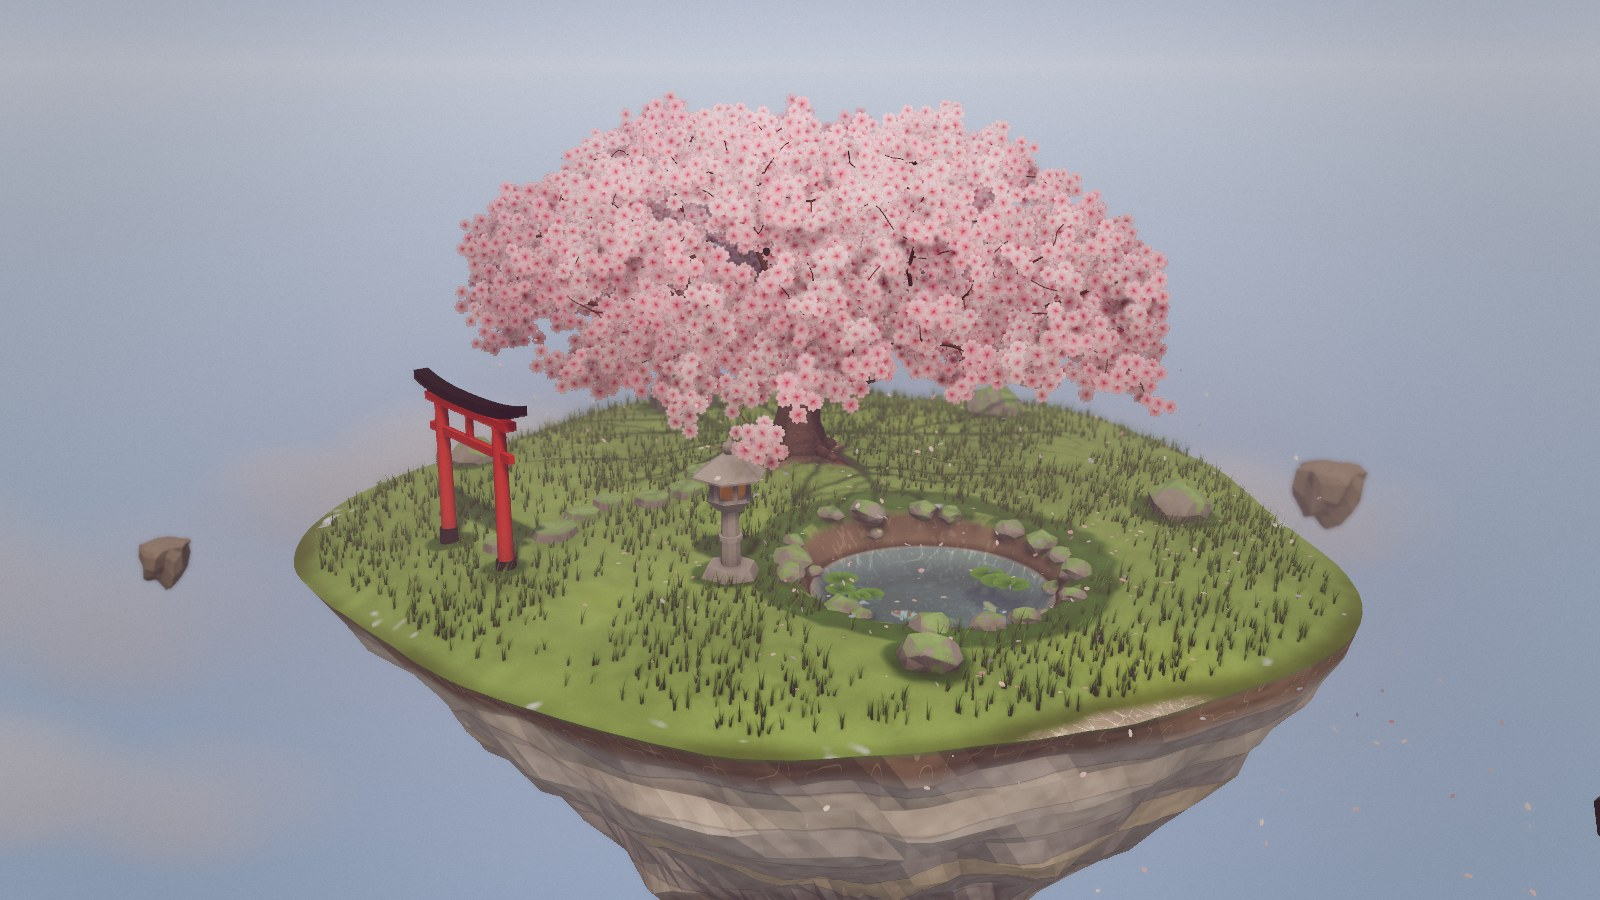
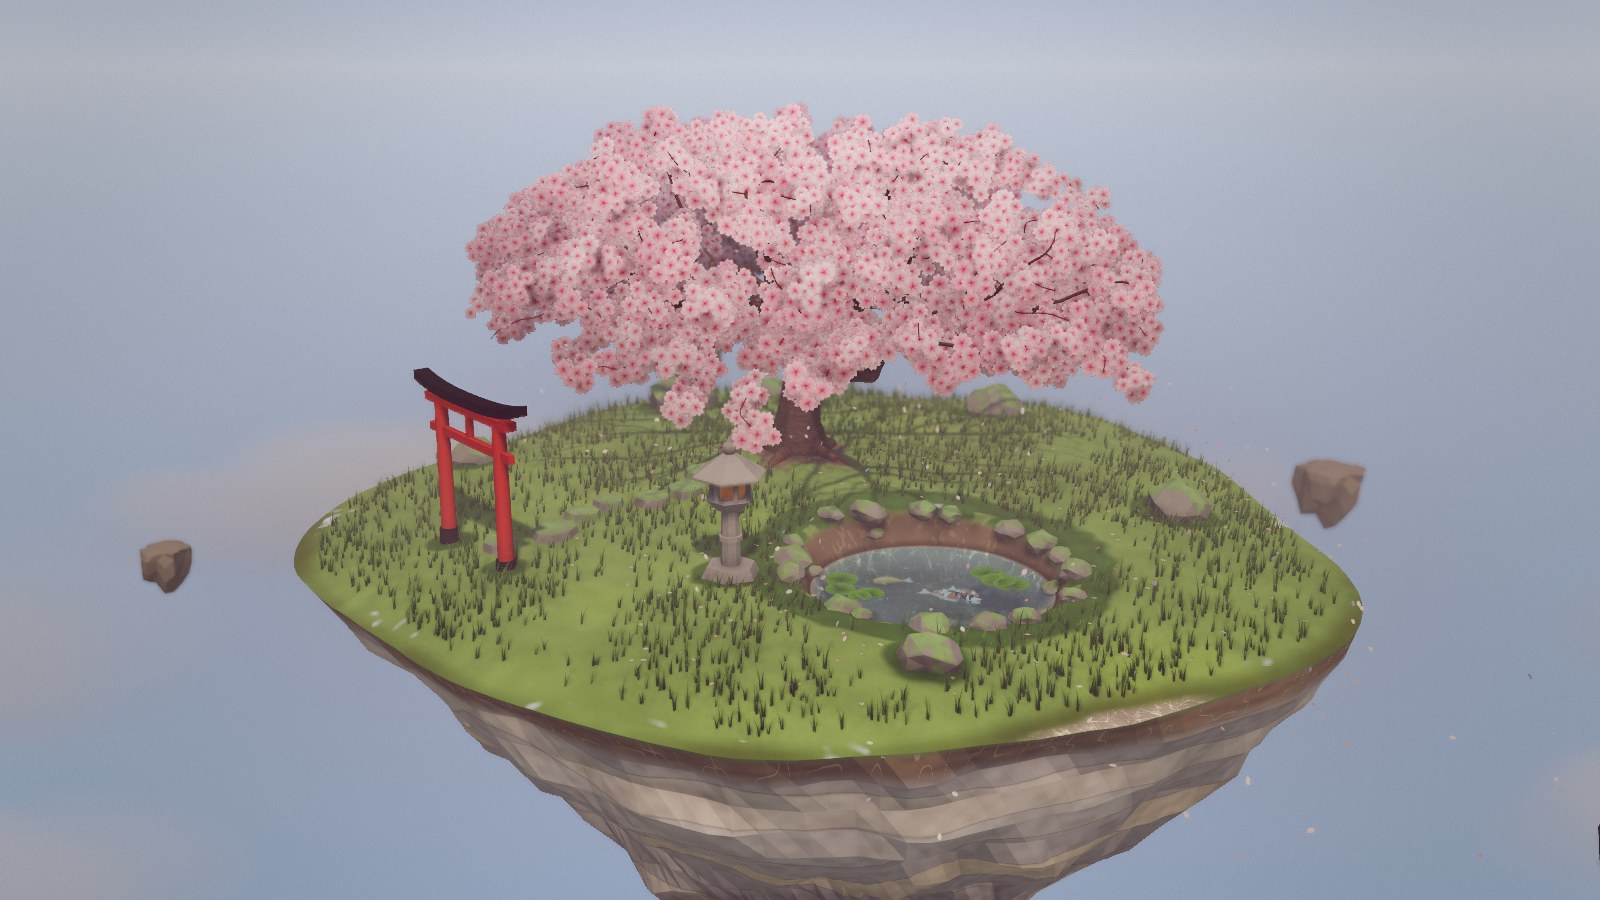
Docs: refresh frame times, known issues, dev checks and screenshots

diff --git a/README.md b/README.md
@@ -146,12 +146,15 @@ These were measured on a **GeForce GT 730** (a 2014 entry-level card, well below
 
 | Preset | Summer (heaviest season) | Winter |
 |---|---|---|
-| Low | **11.2 ms (89 fps)** | **9.6 ms (104 fps)** |
-| High | 23.4 ms (43 fps) | 18.5 ms (54 fps) |
-| Cinematic | 27.2 ms (37 fps) | 25.5 ms (39 fps) |
+| Low | **13.7 ms (73 fps)** | **12.2 ms (82 fps)** |
+| High | 24.4 ms (41 fps) | 19.1 ms (52 fps) |
+| Cinematic | 27.1 ms (37 fps) | 25.7 ms (39 fps) |
 
-At grass level in summer (the worst case for fill rate), Low measured 15.0 ms (67 fps) and High 24.8 ms. **Low holds
-60 fps on that card everywhere.** A typical mid-range laptop GPU (Iris Xe, MX-series, RTX 3050 laptop) has roughly
+At grass level in summer (the worst case for fill rate), Low measured 15.0 ms (67 fps) and High 24.8 ms in an earlier
+measurement. **Low holds 60 fps on that card at 1280×720.**
+
+**At 1920×1080** the same card is fill-rate bound: the startup benchmark measures High at about 40 ms (25 fps) and
+starts on Low, which then runs at roughly 38–40 fps. For 60 fps on this class of card, use a smaller window. A typical mid-range laptop GPU (Iris Xe, MX-series, RTX 3050 laptop) has roughly
 three times that headroom.
 
 What made that possible:
@@ -160,6 +163,12 @@ What made that possible:
 - The ground's ~17 noise evaluations per pixel are baked once into mipmapped textures, which saved ~5 ms on the GT 730.
 - MSAA is kept out of the post-processing ping-pong buffers. The scene resolves once.
 - The final pass (tone mapping, grade, vignette, grain) replaced three's output pass at the same cost. The cinematic look is free on Low and High.
+
+## Known issues
+
+- After a lost WebGL context is restored, the browser can report a single `INVALID_OPERATION` (WebGL error 1282) while
+  the ground textures are rebaked. Every frame afterwards is clean and the image is unaffected.
+- On Low (no MSAA), thin leaf edges shimmer slightly while orbiting. High and Cinematic anti-alias them.
 
 ## Deploy
 

diff --git a/ARCHITECTURE.md b/ARCHITECTURE.md
@@ -340,6 +340,13 @@ compile, benchmark), yielding a paint each time so the veil’s progress line
 advances. A failed import, a failed context, or a lost WebGL context all end
 in the same calm failure message.
 
+### Dev checks (console)
+Two checks load on demand (they are separate lazy chunks, never part of normal startup):
+* `__sakura.checkSprayAttachment()` — distance from every visible blossom / leaf hub to the nearest branch surface,
+  across seasons and wind phases. Expected: 0 for all sprays.
+* `__sakura.measureFlicker({ mode, year, camera })` — renders consecutive frames and counts canopy pixels that jump
+  and jump straight back (`spikeRate`) and spray-sized blinks (`popsPerFrame`).
+
 ### UI (`ui.js`)
 Plain DOM + CSS: vertical title, a brush-line timeline with 春 夏 秋 冬
 markers and a hanko-seal thumb, sekki caption, autoplay and day/night buttons,
